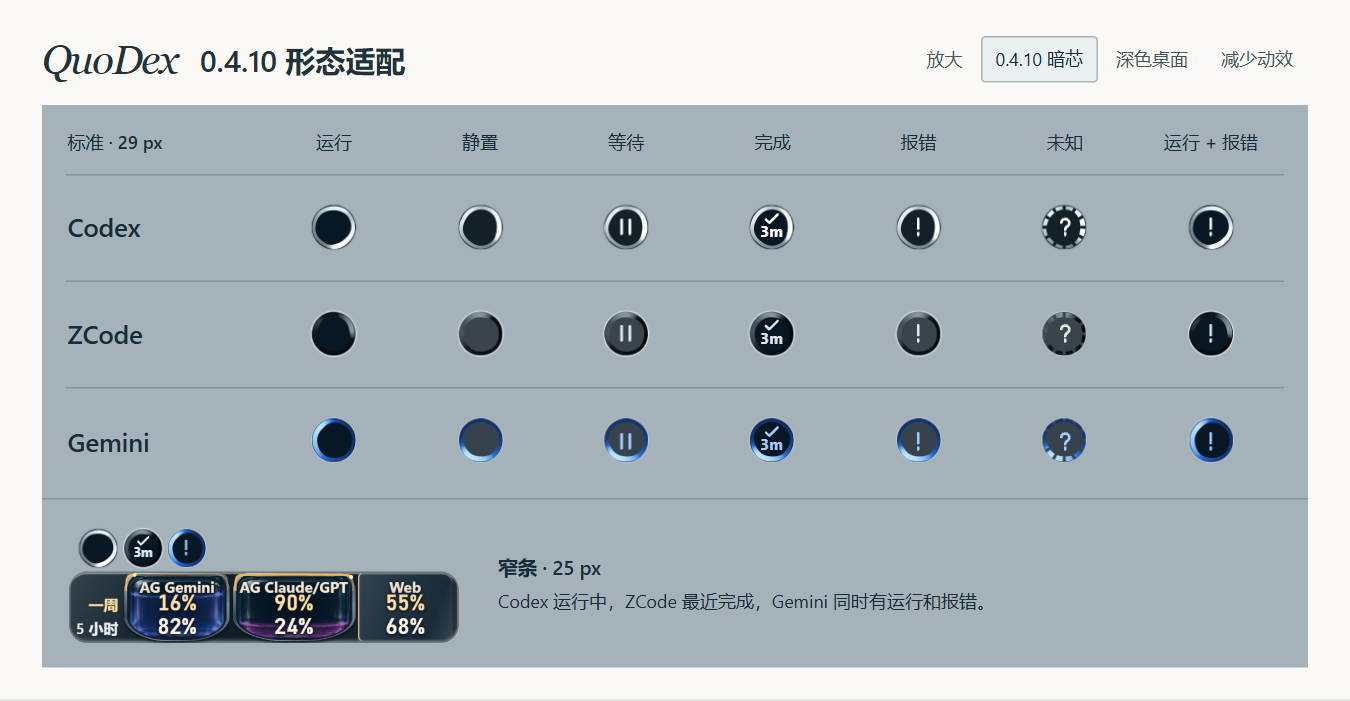
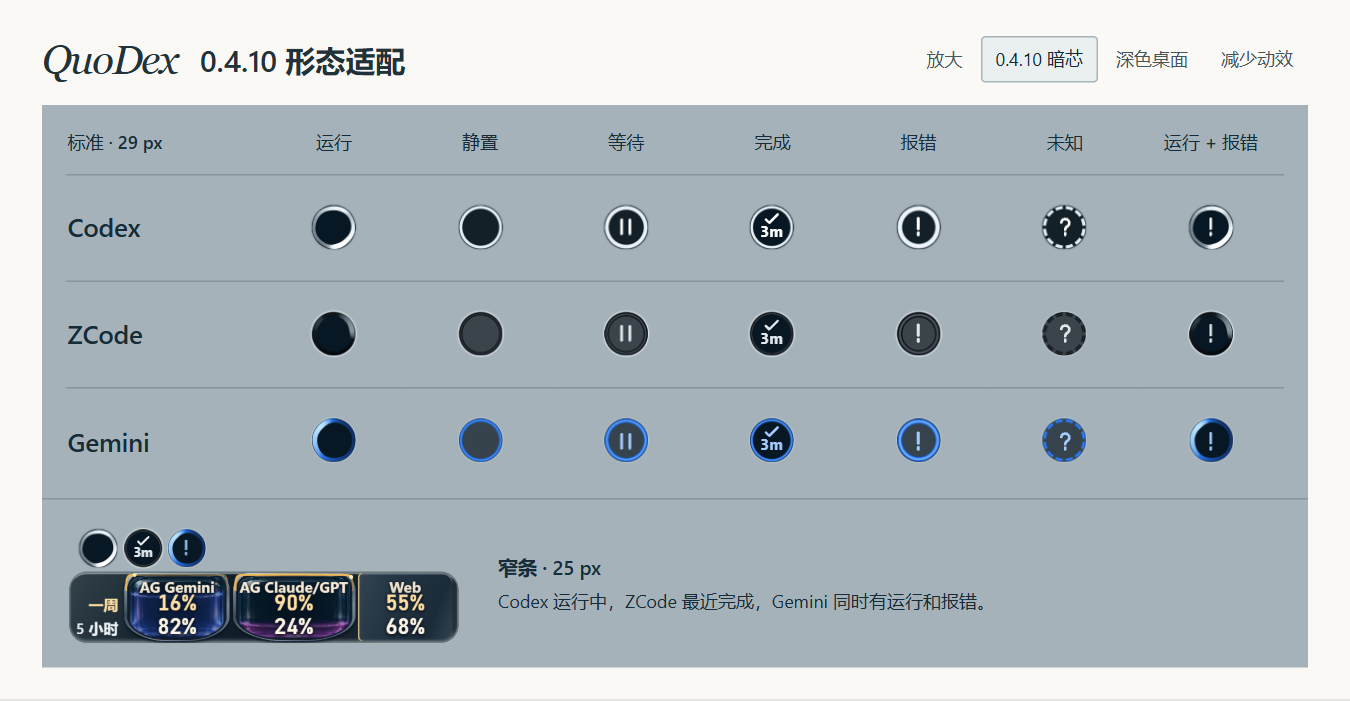
按任务状态塑造静态环边，去掉冻结的运行亮峰

diff --git a/docs/design/gemini-taskbar/v0410-reference/study.js b/docs/design/gemini-taskbar/v0410-reference/study.js
@@ -13,6 +13,24 @@ const diameter = 20.4;
 const tau = Math.PI*2;
 const clamp = v => Math.max(0,Math.min(1,v));
 const streams = [];
+// Cross sections in the 20.4-unit source coordinate system.
+// Static material varies across its width only, never around the circumference.
+const stillProfiles = {
+  idle:      {width:1.45, edge:.27, face:.50},
+  waiting:   {width:1.90, edge:.21, face:.56},
+  completed: {width:1.32, edge:.24, face:.53},
+  failed:    {width:2.38, edge:.11, face:.63},
+  unknown:   {width:1.55, edge:.29, face:.48},
+};
+function stillRim(radius,profile) {
+  const outer=diameter/2-.15;
+  const depth=clamp((outer-radius)/profile.width);
+  const roundedFace=Math.sin(Math.PI*depth);
+  return {
+    outer,inner:outer-profile.width,
+    energy:profile.edge+(profile.face-profile.edge)*roundedFace,
+  };
+}
 
 // The two packets, their ripple and their width are the v0.4.10 TaskWaterFlow model.
 function phaseSeed(id) {
@@ -65,7 +83,9 @@ function paint(stream,time) {
   const rgba=stream.image.data;
   const scale=stream.scale;
   for(const {offset,radius,angle,coverage} of stream.band) {
-    const {outer,inner,energy}=waveAt(angle,time,stream.seed);
+    const {outer,inner,energy}=stream.moving
+      ? waveAt(angle,time,stream.seed)
+      : stillRim(radius,stream.profile);
     // Same two pigment intervals and crest exponent as 0.4.10. The centre stays transparent.
     const step=energy<.45?0:1;
     const mix=step===0 ? energy/.45 : ((energy-.45)/.55)**.65;
@@ -87,7 +107,7 @@ function ring(agent,state) {
   result.append(canvas);
   streams.push({
     canvas,ctx:canvas.getContext("2d"),stops:agents[agent].stops,seed:phaseSeed(agent),
-    moving:state==="running" || state==="mixed",dashed:state==="unknown"
+    moving:state==="running" || state==="mixed",dashed:state==="unknown",profile:stillProfiles[state]
   });
   if(state==="completed") {
     result.insertAdjacentHTML("beforeend",'<svg class="completion" viewBox="0 0 40.8 40.8"><path d="m5 12 4 4 10-10" transform="translate(10.8 3.5) scale(.8)" stroke-width="2.8"/><text x="20.4" y="29.8" text-anchor="middle">3m</text></svg>');

diff --git a/docs/design/gemini-taskbar/v0410-reference/study.css b/docs/design/gemini-taskbar/v0410-reference/study.css
@@ -34,6 +34,7 @@ td {height:71px}
 .ring canvas,.ring .completion {width:100%;height:100%;position:absolute;inset:0}
 .ring svg {fill:none;stroke:currentColor;stroke-linecap:round;stroke-linejoin:round}
 .glyph {width:56.37%;height:56.37%;position:relative;stroke-width:2.6}
+.ring[data-state=failed] .glyph {stroke-width:3.15}
 .ring text {fill:currentColor;stroke:none;font:650 14px "Segoe UI",sans-serif; font-variant-numeric:tabular-nums}
 footer {padding:16px 18px;gap:26px;flex-wrap:wrap; background:var(--desktop); color:var(--ink); border-top:1px solid var(--rule) }
 .dock-sample {width:260px}

diff --git a/docs/design/gemini-taskbar/v0410-reference/README.md b/docs/design/gemini-taskbar/v0410-reference/README.md
@@ -16,4 +16,4 @@
 
 原版笔画在标签的 `src/TaskStatusStrip.tsx`，材质计算在 `src/TaskWaterFlow.tsx`。后者在标签和 `b47c86b` 中指向相同的 Git blob `a877aa534d8bf5671b52f7ec46a55af4acaab3a5`。可用 `git show v0.4.10:src/TaskWaterFlow.tsx` 查看原算法。
 
-样稿中，静置、等待、完成、报错的环缘都取同色运行水纹的第一帧。未知态在同一帧上留出十二处断口。动画循环只重绘仍有任务运行的环；中心的状态笔画与水纹分层绘制。
+只有运行和「运行＋报错」使用沿圆周移动的双波峰。静态环沿厚度方向从暗边过渡到亮面，整圈均匀。等待用中等厚度的闭环和双竖线。完成收细环边，突出勾和分钟数。报错用较厚的环边和加重的叹号。未知用低反差的十二段虚线和问号。动画循环只重绘有任务运行的环。
